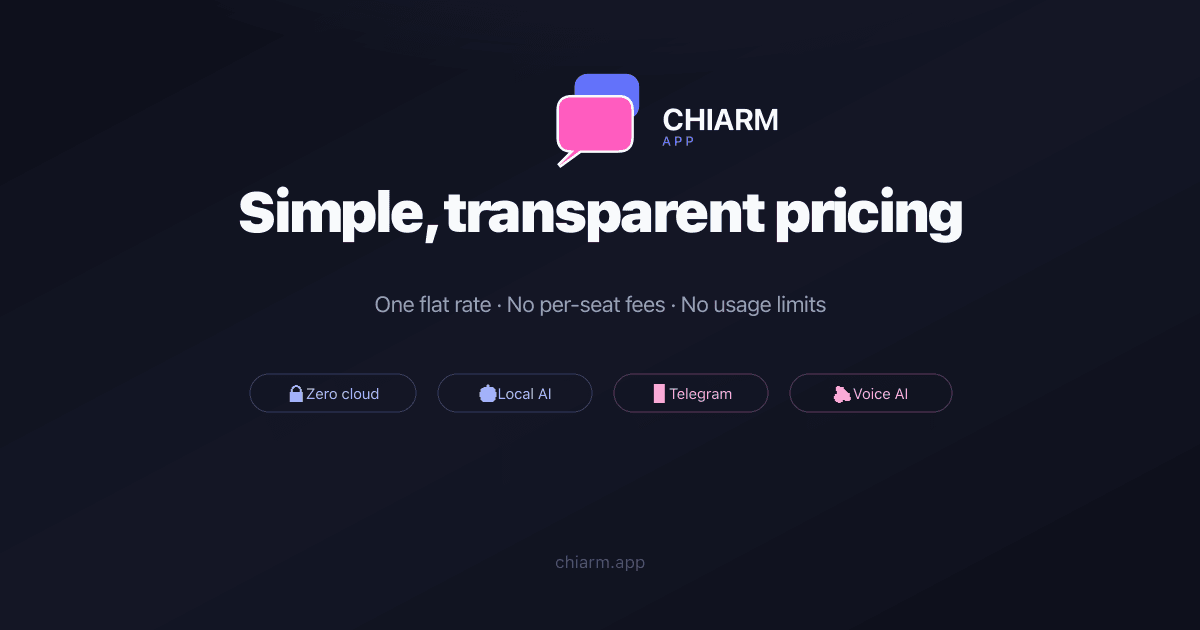
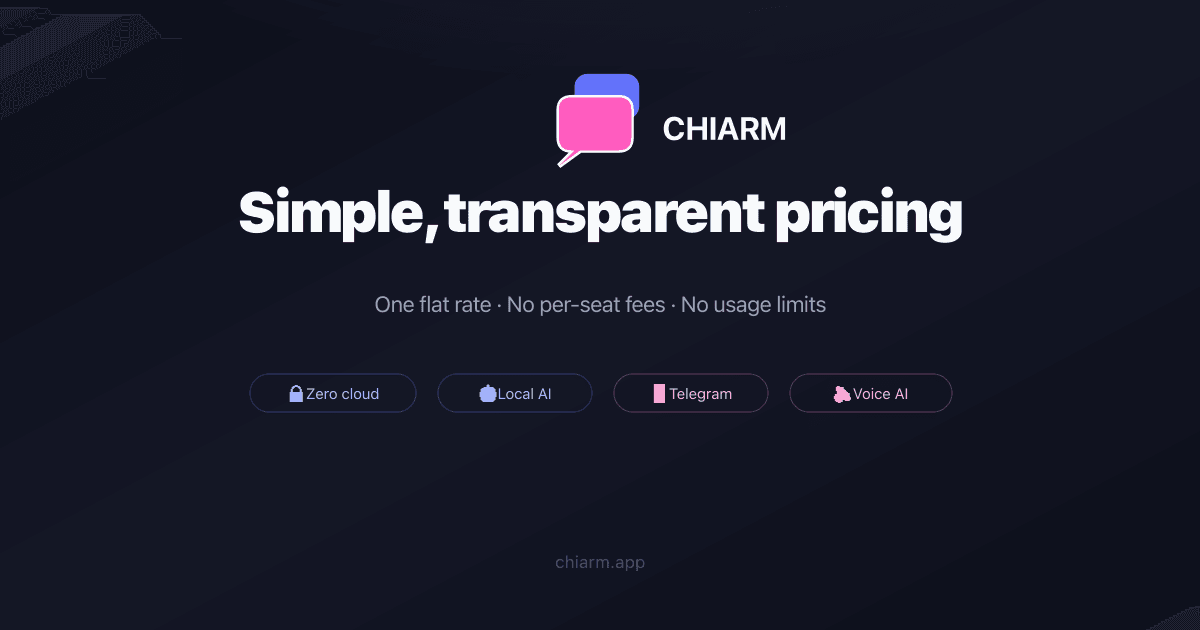
feat: pricing overhaul — Solo sold out, Team→Pro, Enterprise ad campaigns
- Solo plan: price set to 99€, marked as SOLD OUT (greyed badge, strikethrough, disabled CTA)
- Team renamed to Pro: up to 5 accounts, AI smart replies & summaries
- Enterprise: added ad campaign management, bulk broadcasts, analytics, Meta Ads integration
- CS translations updated to match EN pricing changes
- OG images regenerated with updated brand mark (removed "APP" subtitle)

Changed region(s): [[0.0, 0.0, 0.1233, 0.181], [0.555, 0.1508, 0.6783, 0.2413], [0.9558, 0.9651, 1.0, 1.0]]

diff --git a/lib/i18n/translations.ts b/lib/i18n/translations.ts
@@ -107,7 +107,7 @@ const en = {
         { title: "Message Templates",    desc: "Create, organize, and reuse templates with variables. Speed up repetitive conversations.",                      badge: undefined },
         { title: "Local Analytics",      desc: "Full conversation history, reply rates, and team stats — stored privately on your machine.",                    badge: undefined },
         { title: "End-to-End Privacy",   desc: "No cloud, no telemetry, no third-party integrations unless you add them. Complete data sovereignty.",           badge: undefined },
-        { title: "Offline Operation",    desc: "Works without an internet connection after setup. Your CRM is always available, even without Wi-Fi.",            badge: undefined },
+        { title: "Native Speed",          desc: "Built as a real desktop app — not a browser tab. Instant startup, real-time sync, and zero lag even with thousands of conversations.", badge: undefined },
       ],
     },
     trust: {
@@ -123,7 +123,7 @@ const en = {
       tag: "FAQ",
       title: "Common questions",
       items: [
-        { q: "Is CHIARM really free to download?",            a: "CHIARM is free to download and evaluate. Continued use requires a subscription starting at 279€/month + VAT. Enterprise pricing is available for large teams — contact us." },
+        { q: "How do I get access to CHIARM?",                a: "CHIARM is available to subscribers only. Once you purchase a plan, you receive access to the download and your license key via the dashboard. Contact us to get started." },
         { q: "Where is my data stored?",                      a: "All your data — contacts, conversations, templates, AI models — is stored exclusively on your computer. Nothing is ever sent to our servers. We never see your messages." },
         { q: "Which messaging platforms does CHIARM support?", a: "Currently Telegram is fully supported. WhatsApp and Instagram DM support are in development and coming soon." },
         { q: "Does it work on Windows and Linux?",            a: "macOS (Apple Silicon & Intel) is fully supported. Windows and Linux builds are in progress — sign up for early access." },
@@ -146,19 +146,21 @@ const en = {
       {
         name: "Solo",
         desc: "For individual operators running Telegram outreach.",
-        cta: "Get started",
+        cta: "Sold out",
         period: "month",
-        badge: undefined as string | undefined,
+        badge: "Sold out" as string | undefined,
+        soldOut: true,
         features: ["1 Telegram account","AI smart replies","Conversation summaries","Message templates","Anti-spam engine","Local analytics","macOS desktop app","Email support"],
         missing:  ["Voice cloning","Team roles","Multi-account","Priority support"],
       },
       {
-        name: "Team",
+        name: "Pro",
         desc: "For small teams managing multiple Telegram accounts.",
         cta: "Get started",
         period: "month",
         badge: "Most popular" as string | undefined,
-        features: ["Up to 5 Telegram accounts","AI smart replies","Conversation summaries","Voice cloning","Message templates","Anti-spam engine","Local analytics","Owner + manager + chatter roles","Multi-account dashboard","macOS desktop app","Priority email support"],
+        soldOut: false,
+        features: ["Up to 5 Telegram accounts at once","AI smart replies","AI conversation summaries","Voice cloning","Message templates","Anti-spam engine","Local analytics","Owner + manager + chatter roles","Multi-account dashboard","macOS desktop app","Priority email support"],
         missing: [] as string[],
       },
       {
@@ -167,7 +169,8 @@ const en = {
         cta: "Contact sales",
         period: undefined as string | undefined,
         badge: undefined as string | undefined,
-        features: ["Unlimited Telegram accounts","All Team features","WhatsApp (coming soon)","Instagram DMs (coming soon)","Custom integrations","Dedicated onboarding","SLA & uptime guarantee","Invoice billing"],
+        soldOut: false,
+        features: ["Unlimited Telegram accounts","All Pro features","Ad campaign management","Bulk broadcast campaigns","Campaign analytics & reporting","WhatsApp (coming soon)","Instagram DMs (coming soon)","Meta Ads integration (coming soon)","Custom integrations","Dedicated onboarding","SLA & uptime guarantee","Invoice billing"],
         missing: [] as string[],
       },
     ],
@@ -184,7 +187,7 @@ const en = {
     ],
     faqTitle: "Pricing FAQ",
     faqs: [
-      { q: "Is there a free trial?",                  a: "Yes — download CHIARM and evaluate it for free. A subscription is required to continue using it after the trial period." },
+      { q: "Is there a free trial?",                  a: "Please contact us to discuss trial access. CHIARM is a subscriber-only product — download is available exclusively through the dashboard after purchasing a plan." },
       { q: "What does the price include?",             a: "All updates, new features, and email support are included in your subscription. There are no per-seat or per-message fees." },
       { q: "Do you offer monthly and annual billing?", a: "Currently we offer monthly billing only. Annual billing with a discount is on the roadmap — contact us to discuss." },
       { q: "Is VAT included in the price?",            a: "No, 279€ is exclusive of VAT. VAT is applied at your local rate during checkout." },
@@ -308,7 +311,7 @@ const cs = {
         { title: "Šablony zpráv",       desc: "Vytvářejte, organizujte a znovu používejte šablony s proměnnými. Zrychlete opakující se konverzace.",          badge: undefined },
         { title: "Lokální analytika",   desc: "Kompletní historie konverzací, míry odpovědí a statistiky týmu — uložené soukromě na vašem stroji.",          badge: undefined },
         { title: "Maximální soukromí",  desc: "Žádný cloud, žádná telemetrie, žádné integrace třetích stran, pokud je sami nepřidáte.",                       badge: undefined },
-        { title: "Offline provoz",      desc: "Po nastavení funguje bez připojení k internetu. Váš CRM je vždy dostupný, i bez Wi-Fi.",                       badge: undefined },
+        { title: "Nativní rychlost",    desc: "Skutečná desktopová aplikace — žádná záložka prohlížeče. Okamžité spuštění, synchronizace v reálném čase a nulová prodleva i s tisíci konverzacemi.", badge: undefined },
       ],
     },
     trust: {
@@ -324,7 +327,7 @@ const cs = {
       tag: "Časté dotazy",
       title: "Nejčastější otázky",
       items: [
-        { q: "Je CHIARM skutečně ke stažení zdarma?",           a: "CHIARM je zdarma ke stažení a vyzkoušení. Další používání vyžaduje předplatné od 279 €/měsíc + DPH. Podnikové ceny jsou k dispozici pro velké týmy — kontaktujte nás." },
+        { q: "Jak získám přístup k CHIARM?",                    a: "CHIARM je dostupný pouze pro předplatitele. Po zakoupení plánu obdržíte přístup ke stažení a licenční klíč prostřednictvím dashboardu. Kontaktujte nás pro zahájení." },
         { q: "Kde jsou moje data uložena?",                      a: "Všechna vaše data — kontakty, konverzace, šablony, modely AI — jsou uložena výhradně na vašem počítači. Nic není nikdy odesíláno na naše servery." },
         { q: "Které platformy CHIARM podporuje?",                a: "Aktuálně je plně podporován Telegram. Podpora WhatsApp a Instagram DM je ve vývoji a brzy přibude." },
         { q: "Funguje na Windows a Linuxu?",                     a: "macOS (Apple Silicon a Intel) je plně podporován. Verze pro Windows a Linux jsou ve vývoji." },
@@ -344,9 +347,9 @@ const cs = {
     title: "Jednoduché a transparentní ceny",
     desc: "Jedna fixní cena. Žádné poplatky za uživatele. Žádné limity. Vaše data zůstávají na vašem stroji.",
     plans: [
-      { name: "Solo",       desc: "Pro jednotlivé operátory provozující Telegram kampaně.",          cta: "Začít",              period: "měsíc",   badge: undefined as string | undefined, features: ["1 Telegram účet","Chytré odpovědi AI","Shrnutí konverzací","Šablony zpráv","Ochrana proti spamu","Lokální analytika","Desktopová aplikace pro macOS","Podpora e-mailem"], missing: ["Klonování hlasu","Týmové role","Více účtů","Prioritní podpora"] },
-      { name: "Team",       desc: "Pro malé týmy spravující více Telegram účtů.",                   cta: "Začít",              period: "měsíc",   badge: "Nejoblíbenější" as string | undefined, features: ["Až 5 Telegram účtů","Chytré odpovědi AI","Shrnutí konverzací","Klonování hlasu","Šablony zpráv","Ochrana proti spamu","Lokální analytika","Role vlastník + manažer + chattér","Přehled více účtů","Desktopová aplikace pro macOS","Prioritní podpora e-mailem"], missing: [] as string[] },
-      { name: "Enterprise", desc: "Vlastní nasazení pro velké týmy a agentury.",                    cta: "Kontaktovat obchod", period: undefined as string | undefined, badge: undefined as string | undefined, features: ["Neomezený počet Telegram účtů","Vše z plánu Team","WhatsApp (brzy)","Instagram DM (brzy)","Vlastní integrace","Dedikované zapracování","SLA a záruka dostupnosti","Fakturační platba"], missing: [] as string[] },
+      { name: "Solo",       desc: "Pro jednotlivé operátory provozující Telegram kampaně.",          cta: "Vyprodáno",          period: "měsíc",   badge: "Vyprodáno" as string | undefined,      soldOut: true,  features: ["1 Telegram účet","Chytré odpovědi AI","Shrnutí konverzací","Šablony zpráv","Ochrana proti spamu","Lokální analytika","Desktopová aplikace pro macOS","Podpora e-mailem"], missing: ["Klonování hlasu","Týmové role","Více účtů","Prioritní podpora"] },
+      { name: "Pro",        desc: "Pro malé týmy spravující více Telegram účtů.",                   cta: "Začít",              period: "měsíc",   badge: "Nejoblíbenější" as string | undefined, soldOut: false, features: ["Až 5 Telegram účtů najednou","Chytré odpovědi AI","AI shrnutí konverzací","Klonování hlasu","Šablony zpráv","Ochrana proti spamu","Lokální analytika","Role vlastník + manažer + chattér","Přehled více účtů","Desktopová aplikace pro macOS","Prioritní podpora e-mailem"], missing: [] as string[] },
+      { name: "Enterprise", desc: "Vlastní nasazení pro velké týmy a agentury.",                    cta: "Kontaktovat obchod", period: undefined as string | undefined, badge: undefined as string | undefined,        soldOut: false, features: ["Neomezený počet Telegram účtů","Vše z plánu Pro","Správa reklamních kampaní","Hromadné broadcast kampaně","Analytika kampaní a reporty","WhatsApp (brzy)","Instagram DM (brzy)","Integrace Meta Ads (brzy)","Vlastní integrace","Dedikované zapracování","SLA a záruka dostupnosti","Fakturační platba"], missing: [] as string[] },
     ],
     vatNote: "/měsíc + DPH",
     customPrice: "Na míru",
@@ -361,7 +364,7 @@ const cs = {
     ],
     faqTitle: "Časté dotazy k cenám",
     faqs: [
-      { q: "Je k dispozici zkušební verze?",           a: "Ano — stáhněte si CHIARM a vyzkoušejte zdarma. Po uplynutí zkušební doby je k dalšímu používání vyžadováno předplatné." },
+      { q: "Je k dispozici zkušební verze?",           a: "Pro zkušební přístup nás prosím kontaktujte. CHIARM je produkt určený pouze pro předplatitele — stažení je dostupné výhradně přes dashboard po zakoupení plánu." },
       { q: "Co je zahrnuto v ceně?",                   a: "Všechny aktualizace, nové funkce a podpora e-mailem jsou součástí předplatného. Neúčtujeme žádné poplatky za uživatele ani za zprávy." },
       { q: "Nabízíte měsíční i roční fakturaci?",      a: "Aktuálně nabízíme pouze měsíční fakturaci. Roční fakturace se slevou je v plánu — kontaktujte nás k projednání." },
       { q: "Je DPH zahrnuto v ceně?",                  a: "Ne, 279 € je bez DPH. DPH je přičtena ve výši vaší místní sazby při pokladně." },

diff --git a/app/pricing/page.tsx b/app/pricing/page.tsx
@@ -17,7 +17,7 @@ const planHrefs = [
   "mailto:sales@chiarm.app",
 ] as const;
 
-const planPrices = ["279", "279", null] as const;
+const planPrices = ["99", "279", null] as const;
 
 const planHighlights = [false, true, false] as const;
 
@@ -55,17 +55,20 @@ export default function PricingPage() {
               const href = planHrefs[idx];
               const price = planPrices[idx];
               const highlight = planHighlights[idx];
+              const soldOut = (plan as { soldOut?: boolean }).soldOut === true;
               return (
                 <div
                   key={plan.name}
                   className={`relative rounded-2xl border p-6 flex flex-col ${
-                    highlight
+                    soldOut
+                      ? "border-border bg-card opacity-70"
+                      : highlight
                       ? "border-primary bg-primary/5 shadow-lg shadow-primary/10"
                       : "border-border bg-card"
                   }`}
                 >
                   {plan.badge && (
-                    <span className="absolute -top-3 left-1/2 -translate-x-1/2 rounded-full bg-primary px-3 py-0.5 text-[11px] font-semibold text-white whitespace-nowrap">
+                    <span className={`absolute -top-3 left-1/2 -translate-x-1/2 rounded-full px-3 py-0.5 text-[11px] font-semibold text-white whitespace-nowrap ${soldOut ? "bg-muted-foreground" : "bg-primary"}`}>
                       {plan.badge}
                     </span>
                   )}
@@ -76,13 +79,21 @@ export default function PricingPage() {
                   <div className="mb-6">
                     {price ? (
                       <>
-                        <span className="text-4xl font-bold">{price}€</span>
+                        <span className={`text-4xl font-bold ${soldOut ? "line-through text-muted-foreground" : ""}`}>{price}€</span>
                         <span className="text-muted-foreground text-sm">{t.pricing.vatNote}</span>
                       </>
                     ) : (
                       <span className="text-2xl font-bold text-muted-foreground">{t.pricing.customPrice}</span>
                     )}
                   </div>
+                  {soldOut ? (
+                    <button
+                      disabled
+                      className="rounded-full mb-6 w-full py-2 px-4 text-sm font-medium border border-border text-muted-foreground cursor-not-allowed bg-muted/40"
+                    >
+                      {plan.cta}
+                    </button>
+                  ) : (
                   <ButtonLink
                     href={href}
                     variant={highlight ? "default" : "outline"}
@@ -92,6 +103,7 @@ export default function PricingPage() {
                     {plan.cta}
                     <ArrowRight className="ml-2 h-4 w-4" />
                   </ButtonLink>
+                  )}
                   <ul className="space-y-2.5 text-sm flex-1">
                     {plan.features.map((f) => (
                       <li key={f} className="flex items-start gap-2">

diff --git a/components/logo.tsx b/components/logo.tsx
@@ -41,35 +41,26 @@ export function LogoMark({
 
 type LogoSize = "xs" | "sm" | "md" | "lg";
 
-const sizeMap: Record<LogoSize, { mark: number; text: string; sub: string }> = {
-  xs: { mark: 22, text: "text-xs font-bold",  sub: "text-[8px]"  },
-  sm: { mark: 28, text: "text-sm font-bold",  sub: "text-[9px]"  },
-  md: { mark: 36, text: "text-base font-bold", sub: "text-[10px]" },
-  lg: { mark: 48, text: "text-xl font-bold",  sub: "text-xs"     },
+const sizeMap: Record<LogoSize, { mark: number; text: string }> = {
+  xs: { mark: 22, text: "text-xs font-bold"   },
+  sm: { mark: 28, text: "text-sm font-bold"   },
+  md: { mark: 36, text: "text-base font-bold" },
+  lg: { mark: 48, text: "text-xl font-bold"   },
 };
 
 export function Logo({
   size = "sm",
   className,
-  hideSubtitle = false,
 }: {
   size?: LogoSize;
   className?: string;
-  hideSubtitle?: boolean;
 }) {
   const s = sizeMap[size];
   return (
     <span className={cn("inline-flex items-center gap-2", className)}>
       <LogoMark size={s.mark} />
-      <span className="flex flex-col leading-none">
-        <span className={cn(s.text, "tracking-tight")} style={{ letterSpacing: "-0.01em" }}>
-          CHIARM
-        </span>
-        {!hideSubtitle && (
-          <span className={cn(s.sub, "text-muted-foreground font-medium tracking-widest uppercase mt-0.5")}>
-            APP
-          </span>
-        )}
+      <span className={cn(s.text, "tracking-tight")} style={{ letterSpacing: "-0.01em" }}>
+        CHIARM
       </span>
     </span>
   );
